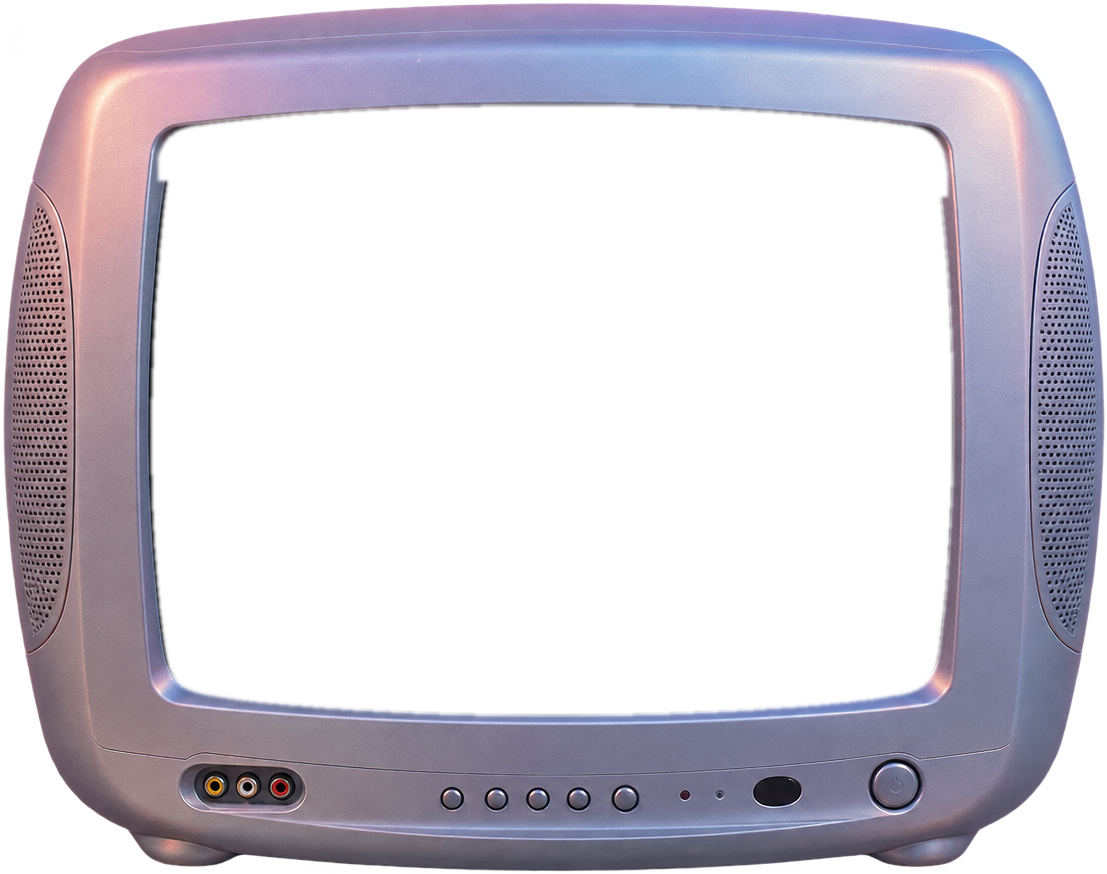
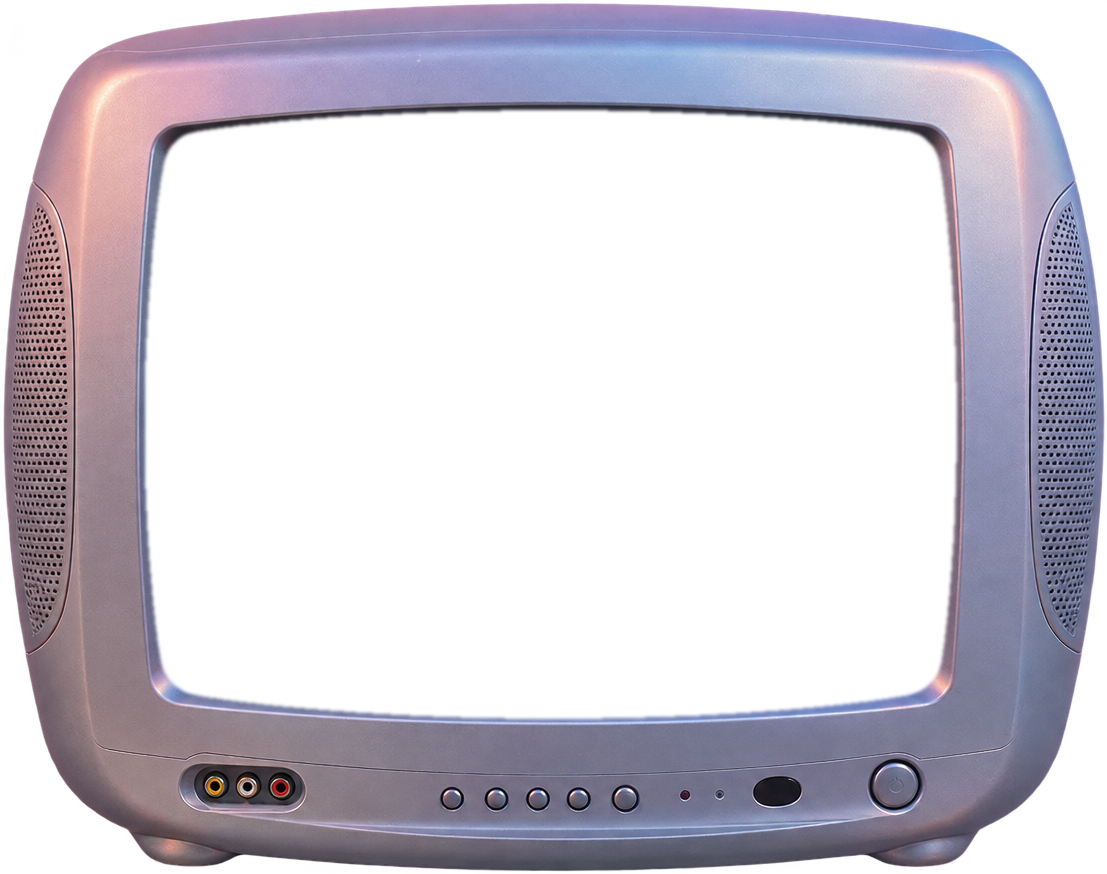
site: punch only the dark screen, keep the shadow band under the top bezel

diff --git a/site/tv-geo.css b/site/tv-geo.css
@@ -2,8 +2,8 @@
   /* glass box inside img/tv.png, written by tools/build_user_assets.py.
      Grown 6px past the measured edge so the screen content runs under the
      bezel instead of leaving a dark rim. */
-  --gl-left:13.279%;
-  --gl-top:11.556%;
-  --gl-w:73.080%;
-  --gl-h:70.709%;
+  --gl-left:12.737%;
+  --gl-top:12.128%;
+  --gl-w:73.984%;
+  --gl-h:70.481%;
 }

diff --git a/tools/build_user_assets.py b/tools/build_user_assets.py
@@ -36,8 +36,13 @@ def build_tv():
     # (black RGB, alpha 0) merges with the black screen and swallows the frame
     flat = Image.new("RGB", tv.size, (255, 255, 255))
     flat.paste(tv, (0, 0), tv)
-    work = flat.copy()
-    ImageDraw.floodfill(work, (int(w * 0.5), int(h * 0.5)), (255, 0, 255), thresh=26)
+    # the screen is essentially black (0-1) while the shadow band under the top
+    # bezel sits around 45-80, so a hard threshold separates them and the band
+    # keeps its shadow instead of being punched out with the glass
+    Lf = np.asarray(flat.convert("L"))
+    binim = Image.fromarray(((Lf < 35) * 255).astype(np.uint8))
+    work = binim.convert("RGB")
+    ImageDraw.floodfill(work, (int(w * 0.5), int(h * 0.5)), (255, 0, 255), thresh=0)
     arr = np.asarray(work)
     glass = (arr[..., 0] == 255) & (arr[..., 1] == 0) & (arr[..., 2] == 255)
     ys2, xs2 = np.where(glass)
@@ -46,7 +51,7 @@ def build_tv():
     m = Image.fromarray((glass * 255).astype(np.uint8))
     # grow the aperture a little: the glass has a lighter bevel inside it, and
     # leaving any of it shows up as a dark rim around the static
-    m = m.filter(ImageFilter.MaxFilter(21))
+    m = m.filter(ImageFilter.MaxFilter(9))
     m = m.filter(ImageFilter.GaussianBlur(1.2))
     # the box everything else is measured from is the DILATED aperture, not the
     # raw flood fill, or the hole ends up wider than the element that fills it
